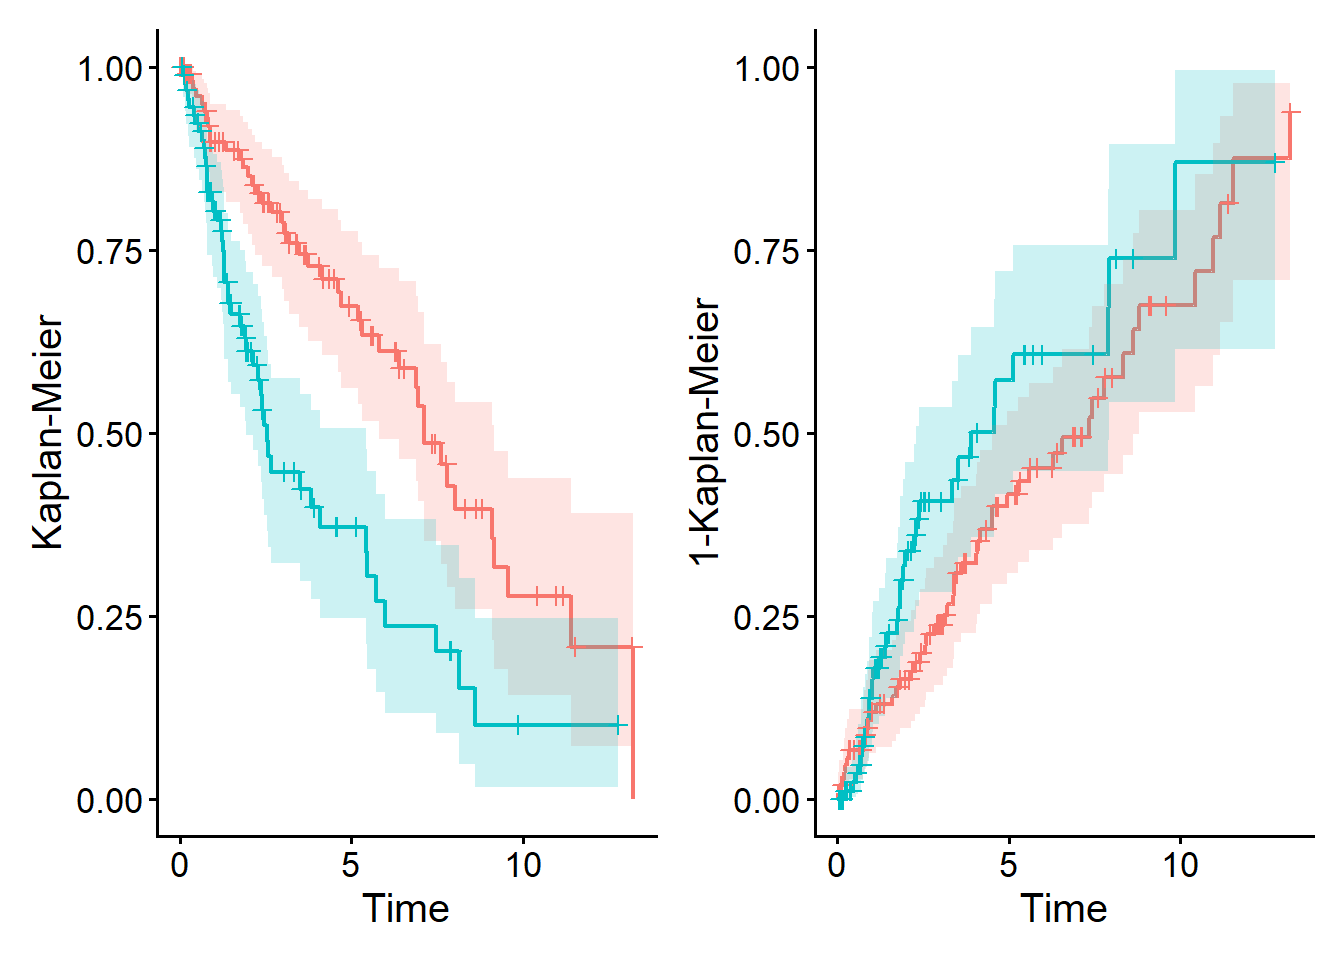
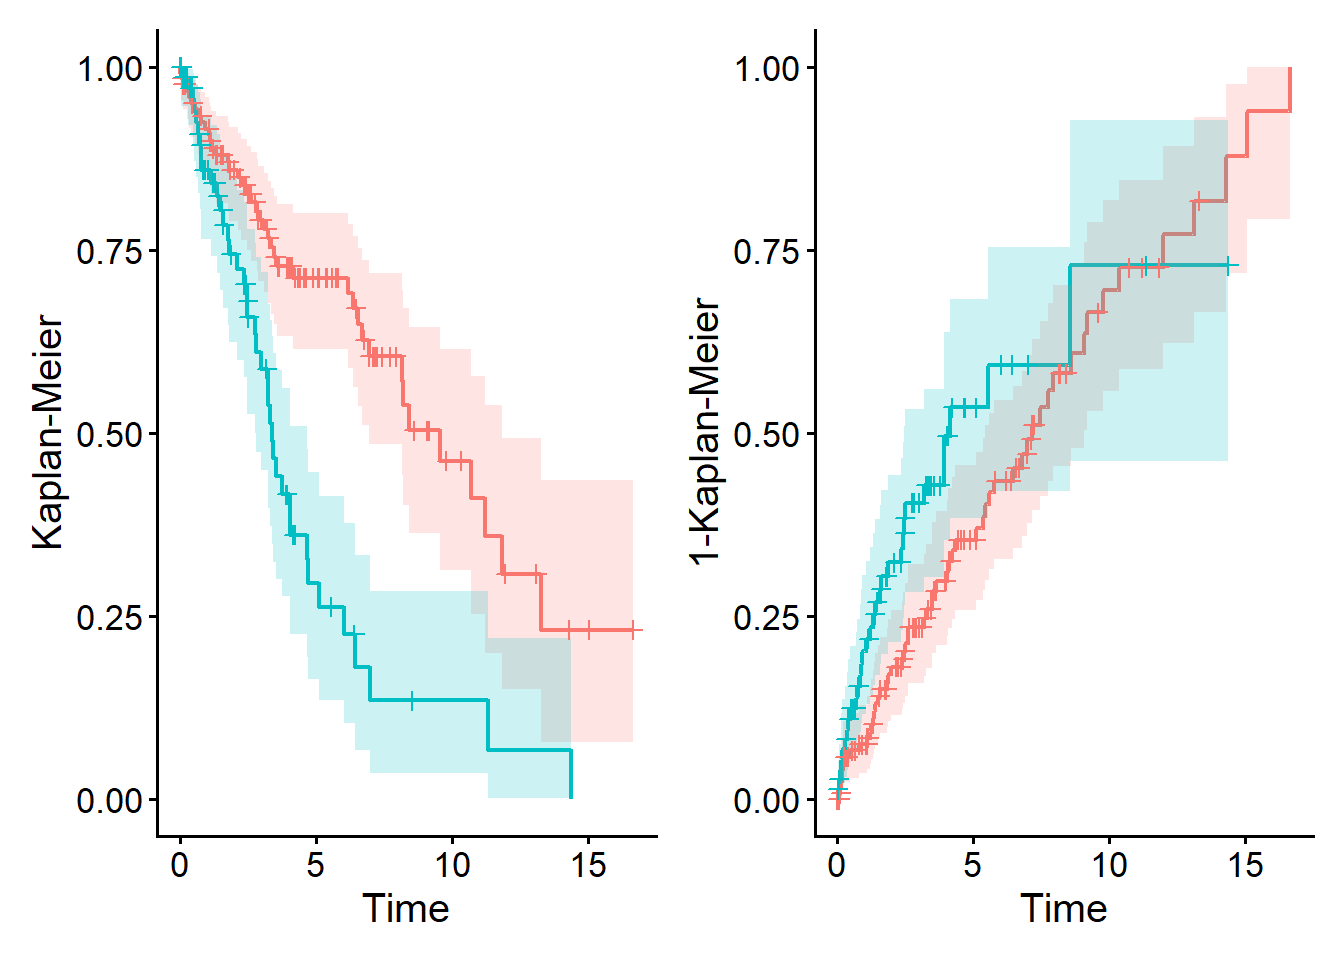
index

diff --git a/docs/jp/frequentist-5.html b/docs/jp/frequentist-5.html
@@ -500,7 +500,7 @@ calculate_coverage()を実行するRコードと結果はこちら
 <span id="cb3-3"><a href="#cb3-3" aria-hidden="true" tabindex="-1"></a>coverage_200 <span class="ot">&lt;-</span> <span class="fu">calculate_coverage</span>(<span class="at">model=</span><span class="st">"coxph"</span>, <span class="at">n=</span><span class="dv">200</span>, <span class="at">hr1=</span><span class="dv">2</span>, <span class="at">hr2=</span><span class="fl">1.5</span>, <span class="at">hr_true=</span><span class="fl">1.5</span>)</span>
 <span id="cb3-4"><a href="#cb3-4" aria-hidden="true" tabindex="-1"></a><span class="fu">print</span>(coverage_200)</span></code><button title="Copy to Clipboard" class="code-copy-button"><i class="bi"></i></button></pre></div>
 <div class="cell-output cell-output-stdout">
-<pre><code>[1] 0.945</code></pre>
+<pre><code>[1] 0.949</code></pre>
 </div>
 </div>
 </div>
@@ -544,19 +544,19 @@ calculate_coverage()を実行するRコードと結果はこちら
 <span id="cb5-3"><a href="#cb5-3" aria-hidden="true" tabindex="-1"></a>coverage_800 <span class="ot">&lt;-</span> <span class="fu">calculate_coverage</span>(<span class="at">model=</span><span class="st">"coxph"</span>, <span class="at">n=</span><span class="dv">800</span>, <span class="at">hr1=</span><span class="dv">2</span>, <span class="at">hr2=</span><span class="fl">1.5</span>, <span class="at">hr_true=</span><span class="fl">1.5</span>)</span>
 <span id="cb5-4"><a href="#cb5-4" aria-hidden="true" tabindex="-1"></a><span class="fu">print</span>(coverage_100)</span></code><button title="Copy to Clipboard" class="code-copy-button"><i class="bi"></i></button></pre></div>
 <div class="cell-output cell-output-stdout">
-<pre><code>[1] 0.951</code></pre>
+<pre><code>[1] 0.953</code></pre>
 </div>
 <div class="sourceCode cell-code" id="cb7"><pre class="sourceCode r code-with-copy"><code class="sourceCode r"><span id="cb7-1"><a href="#cb7-1" aria-hidden="true" tabindex="-1"></a><span class="fu">print</span>(coverage_200)</span></code><button title="Copy to Clipboard" class="code-copy-button"><i class="bi"></i></button></pre></div>
 <div class="cell-output cell-output-stdout">
-<pre><code>[1] 0.945</code></pre>
+<pre><code>[1] 0.949</code></pre>
 </div>
 <div class="sourceCode cell-code" id="cb9"><pre class="sourceCode r code-with-copy"><code class="sourceCode r"><span id="cb9-1"><a href="#cb9-1" aria-hidden="true" tabindex="-1"></a><span class="fu">print</span>(coverage_400)</span></code><button title="Copy to Clipboard" class="code-copy-button"><i class="bi"></i></button></pre></div>
 <div class="cell-output cell-output-stdout">
-<pre><code>[1] 0.96</code></pre>
+<pre><code>[1] 0.946</code></pre>
 </div>
 <div class="sourceCode cell-code" id="cb11"><pre class="sourceCode r code-with-copy"><code class="sourceCode r"><span id="cb11-1"><a href="#cb11-1" aria-hidden="true" tabindex="-1"></a><span class="fu">print</span>(coverage_800)</span></code><button title="Copy to Clipboard" class="code-copy-button"><i class="bi"></i></button></pre></div>
 <div class="cell-output cell-output-stdout">
-<pre><code>[1] 0.957</code></pre>
+<pre><code>[1] 0.945</code></pre>
 </div>
 </div>
 </div>

diff --git a/docs/jp/logistic-regression-1.html b/docs/jp/logistic-regression-1.html
@@ -514,16 +514,22 @@ gtag('config', 'G-FCK3LX51C6', { 'anonymize_ip': true});
 </div>
 <div class="dialogue">
 <div class="voice-daughter">
-<p>私「なるほどね、リスク比を計算すると同じ0.5なのに、オッズ比の値はばらばらなんだ。オッズ比は層別すると同じ効果としては扱いにくいから注意しなさいってことね」</p>
+<p>私「リスク比を計算すると同じ0.5になるデータってことね」</p>
 </div>
 <div class="voice-father">
-<p>お父さん「そうだね、研究者としては、ステージ別でも層別しなくても、リスクが半分になる治療なら、半分ってことが読み取れる値になってほしいよね。そういう感覚でしょ」</p>
+<p>お父さん「うん、リスク比の次にオッズ比をみて。オッズ比の値はばらばらでしょ。言っておくけどこれは交絡のせいじゃないよ、ランダム化してるから」</p>
 </div>
 <div class="voice-daughter">
-<p>私「うん」</p>
+<p>私「ふーん。オッズ比は層別すると同じ効果に見えないから注意しなさいっていいたいわけ？」</p>
 </div>
 <div class="voice-father">
-<p>お父さん「そこまではいいんだ。でも誤解してほしくないのは、リスク比は併合可能で、オッズ比は併合可能ではない、だからオッズ比が悪いっていいたいわけじゃないよ。結果の読み取り方と相性があるってこと。オッズ比はオッズ比で、ロジスティック回帰と対応しているっていうのは別のメリットがある」</p>
+<p>お父さん「そういうこと。研究者としては、ステージ別でも層別しなくても、リスクが半分になる治療なら、半分ってことが読み取れる値になってほしいよね。そういう感覚でしょ」</p>
+</div>
+<div class="voice-daughter">
+<p>私「うん、そう思うよ」</p>
+</div>
+<div class="voice-father">
+<p>お父さん「そこまではいいんだ。でも誤解してほしくないのは、リスク比は層別するとき”併合可能”で、オッズ比は”併合可能ではない”、だからオッズ比が悪いっていいたいわけじゃないよ。結果の読み取り方と相性があるってこと。オッズ比はオッズ比で、ロジスティック回帰と対応しているっていうのは別のメリットがある」</p>
 </div>
 <div class="voice-daughter">
 <p>私「ふーん。お父さんって数学的性質を整理するときめっちゃ早口」</p>

diff --git a/docs/jp/index.html b/docs/jp/index.html
@@ -327,9 +327,9 @@ window.Quarto = {
 <p>この物語は、研究仮説→統計→因果→言語という順で、ある臨床研究を描いています。迷った方へのおすすめエピソードはこちら。</p>
 <ul>
 <li><a href="study-design-1.html"><strong>会話のはじまりと研究仮説（Study Design I）</strong></a></li>
-<li><a href="effects-1.html"><strong>パーセントのよくある誤解（Effects and Time I）</strong></a></li>
-<li><a href="logistic-regression-1.html"><strong>因果推論シリーズ初回（Adjusting for Bias I）</strong></a></li>
-<li><a href="publish-a-paper-2.html"><strong>論文を書いている方へ（Publish a Paper II）</strong></a></li>
+<li><a href="effects-1.html"><strong>95%の誤解を一刀両断（Effects and Time I）</strong></a></li>
+<li><a href="logistic-regression-1.html"><strong>交絡・因果推論の入り口（Adjusting for Bias I）</strong></a></li>
+<li><a href="publish-a-paper-2.html"><strong>よりよい論文を書くための3箇条（Publish a Paper II）</strong></a></li>
 </ul>
 <p>どのエピソードも独立しているので、興味の向くレイヤーを選んでも構いません。</p>
 <hr>

diff --git a/docs/en/frequentist-2.html b/docs/en/frequentist-2.html
@@ -556,20 +556,20 @@ R code for coxph() and outout
 <pre><code>Call:
 coxph(formula = Surv(time_os, status_os) ~ stoma, data = dat)
 
-  n= 200, number of events= 146 
+  n= 200, number of events= 134 
 
-                  coef exp(coef) se(coef)    z Pr(&gt;|z|)  
-stomaWITH STOMA 0.4246    1.5289   0.1671 2.54   0.0111 *
+                  coef exp(coef) se(coef)    z Pr(&gt;|z|)    
+stomaWITH STOMA 0.9311    2.5373   0.1829 5.09 3.58e-07 ***
 ---
 Signif. codes:  0 '***' 0.001 '**' 0.01 '*' 0.05 '.' 0.1 ' ' 1
 
                 exp(coef) exp(-coef) lower .95 upper .95
-stomaWITH STOMA     1.529      0.654     1.102     2.122
+stomaWITH STOMA     2.537     0.3941     1.773     3.631
 
-Concordance= 0.558  (se = 0.023 )
-Likelihood ratio test= 6.39  on 1 df,   p=0.01
-Wald test            = 6.45  on 1 df,   p=0.01
-Score (logrank) test = 6.55  on 1 df,   p=0.01</code></pre>
+Concordance= 0.6  (se = 0.023 )
+Likelihood ratio test= 25.26  on 1 df,   p=5e-07
+Wald test            = 25.91  on 1 df,   p=4e-07
+Score (logrank) test = 27.66  on 1 df,   p=1e-07</code></pre>
 </div>
 </div>
 </div>

diff --git a/docs/jp/frequentist-2.html b/docs/jp/frequentist-2.html
@@ -546,18 +546,20 @@ coxph()のコードと結果はこちら
 <pre><code>Call:
 coxph(formula = Surv(time_os, status_os) ~ stoma, data = dat)
 
-  n= 200, number of events= 140 
+  n= 200, number of events= 135 
 
-                   coef exp(coef) se(coef)     z Pr(&gt;|z|)
-stomaWITH STOMA 0.07962   1.08287  0.17149 0.464    0.642
+                  coef exp(coef) se(coef)    z Pr(&gt;|z|)  
+stomaWITH STOMA 0.3084    1.3612   0.1752 1.76   0.0784 .
+---
+Signif. codes:  0 '***' 0.001 '**' 0.01 '*' 0.05 '.' 0.1 ' ' 1
 
                 exp(coef) exp(-coef) lower .95 upper .95
-stomaWITH STOMA     1.083     0.9235    0.7738     1.515
+stomaWITH STOMA     1.361     0.7346    0.9656     1.919
 
-Concordance= 0.509  (se = 0.024 )
-Likelihood ratio test= 0.21  on 1 df,   p=0.6
-Wald test            = 0.22  on 1 df,   p=0.6
-Score (logrank) test = 0.22  on 1 df,   p=0.6</code></pre>
+Concordance= 0.538  (se = 0.024 )
+Likelihood ratio test= 3.05  on 1 df,   p=0.08
+Wald test            = 3.1  on 1 df,   p=0.08
+Score (logrank) test = 3.12  on 1 df,   p=0.08</code></pre>
 </div>
 </div>
 </div>

diff --git a/docs/jp/effects-1.html b/docs/jp/effects-1.html
@@ -447,7 +447,7 @@ VE=\frac{\pi_2-\pi_1}{\pi_2}=1-RR
 </div>
 </div>
 <div class="callout-body-container callout-body">
-<p>次の表は、ワクチンとプラセボを比較した仮想的な臨床試験のデータです。表の人数からワクチン有効率を計算すると以下のような結果が得られます。</p>
+<p>次の表は、ワクチンとプラセボを比較した臨床試験のデータです（イメージを深めるための仮想例）。表の人数からワクチン有効率を計算すると以下のような結果が得られます。</p>
 <table class="caption-top table">
 <thead>
 <tr class="header">
